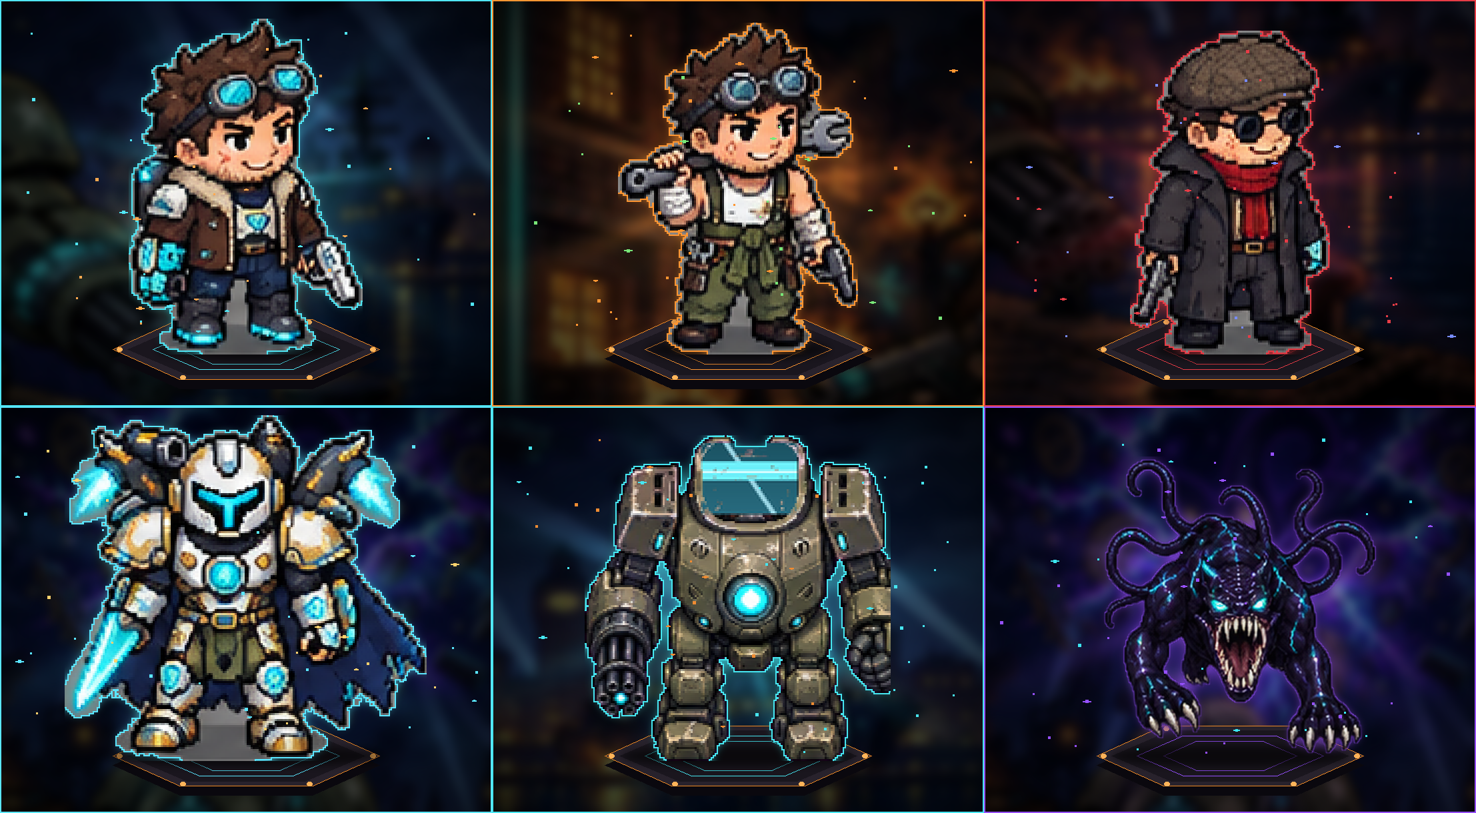
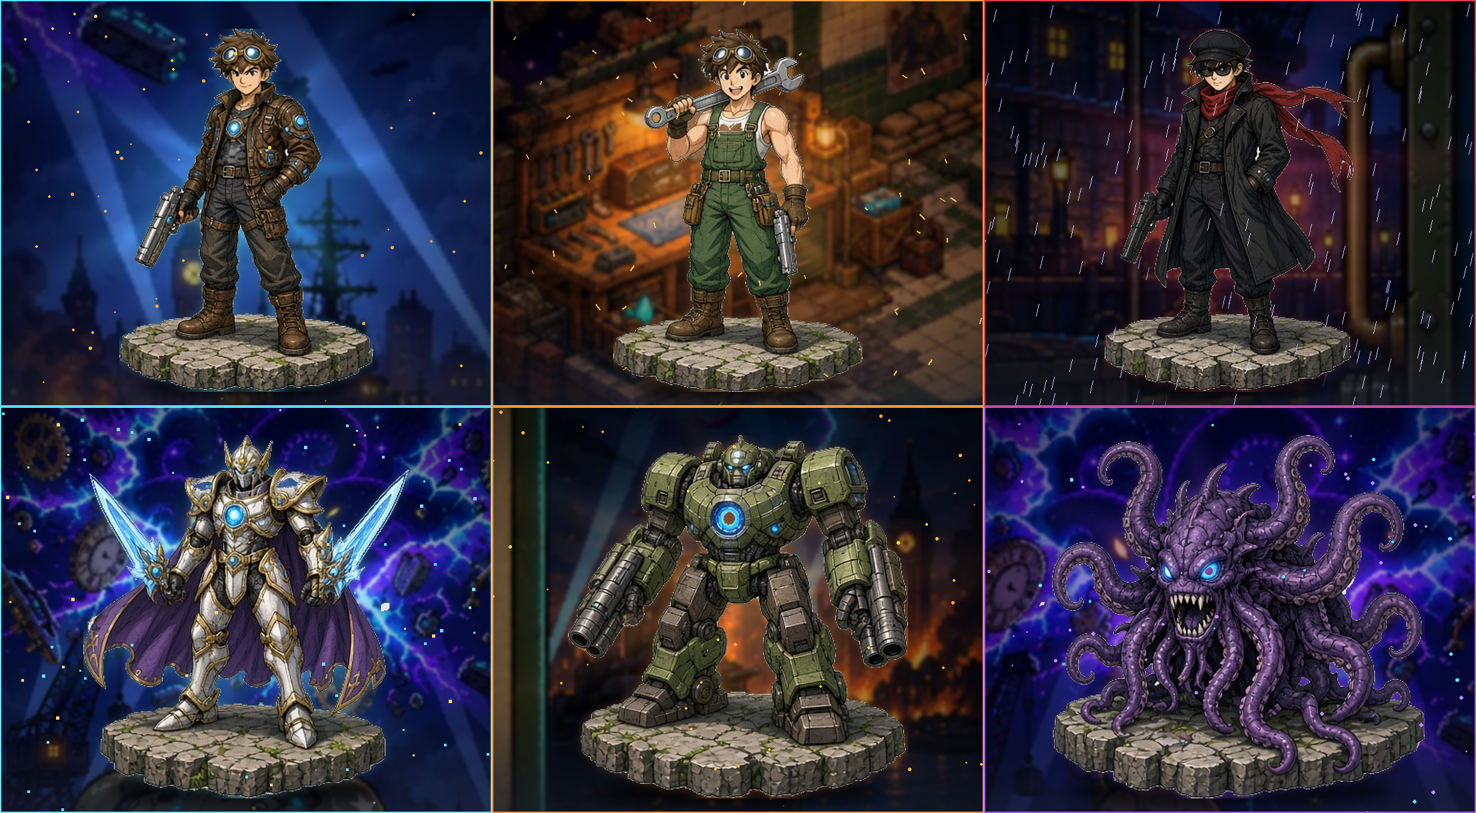
retratos v2: estilo Toriyama refinado + preview e source em art/

diff --git a/tools/make_portraits.py b/tools/make_portraits.py
@@ -1,12 +1,14 @@
-"""Retratos "de vitrine" da tela de EQUIPAMENTO (o personagem grande no meio).
+"""Retratos de vitrine da tela de EQUIPAMENTO (personagem grande no meio).
 
-Monta uma arte por skin, armadura e robô a partir das folhas em alta resolução (art/source, assets/mech),
-num palco noturno das Docas tirado da ilustração do menu: contraluz na cor do equipamento, raios de luz,
-plataforma hexagonal (a mesma da Cápsula Temporal), contorno luminoso, partículas e vinheta.
+Fonte: art/source/portraits-toriyama-v1.png — folha 3x2 gerada a partir de art/source/portraits-toriyama-prompt.txt
+(homenagem ao traço de Akira Toriyama), fundo branco. Este script recorta cada figura, remove o branco com
+bordas suaves e monta um cenário próprio para cada uma usando as ilustrações do jogo:
 
-Saída: assets/ui/portraits/<chave>.png (738x610, o dobro da área de prévia)
-Uso:   python tools/make_portraits.py
-Para trocar por uma ilustração pintada, basta salvar outra imagem com o mesmo nome.
+  Padrão    → cais noturno com holofotes (menu)          Ômega   → céu partido por raios e o monstro (menu)
+  Mecânico  → oficina do Refúgio (refuge-reference)       Titan   → porto em guerra, navios e relâmpagos (adventure)
+  Espião    → rua de Londres com garoa e névoa (online)   Spectre → céu cósmico dos tentáculos, tons violeta (menu)
+
+Saída: assets/ui/portraits/<chave>.png (738x610). Uso: python tools/make_portraits.py
 """
 from pathlib import Path
 import math, random
@@ -14,124 +16,119 @@ import numpy as np
 from PIL import Image, ImageFilter, ImageDraw, ImageEnhance
 
 ROOT = Path(__file__).resolve().parents[1]
+SRC = ROOT / "art/source/portraits-toriyama-v1.png"
 OUT = ROOT / "assets/ui/portraits"
-W, H = 738, 610   # 2× a área interna do painel de prévia (369×305)
+W, H = 738, 610
 
-def sheet_cell(path, box, key_bg=None, tol=24):
-    im = Image.open(ROOT / path).convert("RGBA").crop(box)
-    if key_bg is not None:
-        a = np.asarray(im).copy()
-        diff = np.abs(a[..., :3].astype(int) - np.array(key_bg)).sum(2)
-        # remove o fundo por inundação a partir das bordas (não apaga cinzas dentro do personagem)
-        bg = diff < tol
-        seen = np.zeros_like(bg)
-        stack = [(y, x) for y in range(a.shape[0]) for x in (0, a.shape[1] - 1)] + [(y, x) for x in range(a.shape[1]) for y in (0, a.shape[0] - 1)]
-        while stack:
-            y, x = stack.pop()
-            if y < 0 or x < 0 or y >= a.shape[0] or x >= a.shape[1] or seen[y, x] or not bg[y, x]: continue
-            seen[y, x] = True
-            stack += [(y + 1, x), (y - 1, x), (y, x + 1), (y, x - 1)]
-        a[seen, 3] = 0
-        im = Image.fromarray(a)
-    bb = im.getbbox()
-    return im.crop(bb)
+# recortes na folha (x0, y0, x1, y1)
+CELLS = {"o_padrao": (0, 0, 372, 388), "o_mecanico": (372, 0, 750, 390), "o_espiao": (750, 0, 1168, 392),
+         "armor_omega": (0, 388, 372, 784), "titan": (372, 390, 750, 784), "spectre": (750, 392, 1168, 784)}
 
-GRAY = (123, 123, 123)
-SUBJECTS = {
-    # chave: (recorte, cor principal, cor secundária, fundo do menu)
-    "o_padrao": (lambda: sheet_cell("art/source/marty-outfits-v1.png", (228, 13, 390, 185), GRAY), (80, 230, 245), (255, 170, 80), "city"),
-    "o_espiao": (lambda: sheet_cell("art/source/marty-outfits-v1.png", (228, 200, 390, 367), GRAY), (230, 60, 70), (120, 140, 255), "street"),
-    "o_mecanico": (lambda: sheet_cell("art/source/marty-outfits-v1.png", (228, 379, 390, 547), GRAY), (255, 150, 50), (120, 230, 120), "fire"),
-    "armor_omega": (lambda: sheet_cell("art/source/marty-outfits-v1.png", (15, 561, 196, 734), GRAY), (90, 230, 255), (255, 210, 110), "sky"),
-    "titan": (lambda: Image.open(ROOT / "assets/mech/titan_v2.png").convert("RGBA").crop((880, 0, 1056, 176)).crop(Image.open(ROOT / "assets/mech/titan_v2.png").convert("RGBA").crop((880, 0, 1056, 176)).getbbox()), (70, 230, 240), (240, 140, 50), "docks"),
-    "spectre": (lambda: sheet_cell("art/source/spectre-feral-source.png", (915, 0, 1222, 320)), (150, 80, 255), (60, 230, 240), "sky"),
+# cenário: (arquivo, recorte, desfoque, brilho, cor de contraluz, cor de tom, partículas)
+SCENES = {
+    "o_padrao": ("assets/ui/menu.png", (1070, 200, 1344, 520), 2.5, 0.75, (90, 220, 255), (0.85, 0.95, 1.1), "embers"),
+    "o_mecanico": ("art/source/refuge-reference.png", (40, 60, 560, 390), 2.5, 0.72, (255, 160, 60), (1.12, 0.95, 0.8), "sparks"),
+    "o_espiao": ("assets/ui/online.png", (0, 150, 360, 560), 2.5, 0.6, (230, 60, 70), (0.8, 0.85, 1.15), "rain"),
+    "armor_omega": ("assets/ui/menu.png", (620, 0, 1190, 400), 1.8, 0.8, (110, 225, 255), (0.95, 1.0, 1.15), "energy"),
+    "titan": ("assets/ui/adventure.png", (960, 160, 1344, 560), 2.5, 0.7, (255, 150, 60), (1.05, 1.0, 0.9), "embers"),
+    "spectre": ("assets/ui/menu.png", (730, 0, 1160, 330), 2.0, 0.7, (170, 90, 255), (1.0, 0.8, 1.25), "spores"),
 }
-BG_BOX = {"city": (1000, 300, 1344, 640), "street": (1060, 430, 1344, 720), "fire": (415, 250, 630, 520),
-          "sky": (620, 0, 1180, 420), "docks": (1150, 250, 1344, 560)}
 
-def stage(kind, main, rng):
-    menu = Image.open(ROOT / "assets/ui/menu.png").convert("RGB")
-    bg = menu.crop(BG_BOX[kind]).resize((W, H), Image.BICUBIC).filter(ImageFilter.GaussianBlur(7))
-    bg = ImageEnhance.Brightness(bg).enhance(0.55)
-    bg = ImageEnhance.Color(bg).enhance(0.8)
-    a = np.asarray(bg).astype(float) / 255
-    # tom da cor do equipamento + vinheta
+def cutout(box):
+    im = Image.open(SRC).convert("RGB").crop(box)
+    a = np.asarray(im).astype(np.int16)
+    diff = (255 - a).sum(2)                       # 0 = branco puro
+    bg = diff < 36
+    h, w = bg.shape
+    seen = np.zeros_like(bg)
+    stack = [(y, 0) for y in range(h)] + [(y, w - 1) for y in range(h)] + [(0, x) for x in range(w)] + [(h - 1, x) for x in range(w)]
+    while stack:
+        y, x = stack.pop()
+        if y < 0 or x < 0 or y >= h or x >= w or seen[y, x] or not bg[y, x]: continue
+        seen[y, x] = True
+        stack.extend(((y + 1, x), (y - 1, x), (y, x + 1), (y, x - 1)))
+    # buracos brancos fechados (entre pernas, braços, tentáculos) também são fundo, se forem grandes
+    from scipy import ndimage
+    lab, n = ndimage.label(bg & ~seen)
+    sizes = ndimage.sum(np.ones_like(lab), lab, range(1, n + 1))
+    for i, sz in enumerate(sizes, 1):
+        if sz > 20: seen |= lab == i
+    alpha = np.where(seen, 0, 255).astype(np.float32)
+    # borda suave: pixels claros junto ao fundo ficam semitransparentes e perdem o "halo" branco
+    near = np.asarray(Image.fromarray(seen.astype(np.uint8) * 255).filter(ImageFilter.MaxFilter(5))) > 0
+    edge = near & ~seen
+    k = np.clip(diff / 110.0, 0, 1)
+    alpha[edge] = 255 * k[edge]
+    rgb = a.astype(np.float32)
+    ka = np.clip(alpha / 255.0, 0.05, 1)[..., None]
+    rgb = np.where(edge[..., None], np.clip((rgb - 255 * (1 - ka)) / ka, 0, 255), rgb)   # remove o branco misturado
+    out = Image.fromarray(np.dstack([rgb, alpha]).astype(np.uint8), "RGBA")
+    return out.crop(out.getbbox())
+
+def scene(key, rng):
+    path, box, blur, bright, glowc, tone, _ = SCENES[key]
+    bg = Image.open(ROOT / path).convert("RGB").crop(box)
+    # preenche 738x610 mantendo proporção (corta o excesso)
+    s = max(W / bg.width, H / bg.height)
+    bg = bg.resize((math.ceil(bg.width * s), math.ceil(bg.height * s)), Image.LANCZOS)
+    bg = bg.crop(((bg.width - W) // 2, (bg.height - H) // 2, (bg.width - W) // 2 + W, (bg.height - H) // 2 + H))
+    bg = bg.filter(ImageFilter.GaussianBlur(blur))
+    bg = ImageEnhance.Brightness(bg).enhance(bright)
+    a = np.asarray(bg).astype(np.float32) / 255 * np.array(tone)
     yy, xx = np.mgrid[0:H, 0:W]
-    cx, cy = W / 2, H * 0.52
+    cx, cy = W / 2, H * 0.48
     r = np.sqrt(((xx - cx) / W) ** 2 + ((yy - cy) / H) ** 2)
-    tint = np.array(main) / 255
-    a = a * (0.75 + 0.25 * tint)
-    glow = np.clip(1.0 - r / 0.42, 0, 1) ** 2
-    a = a + glow[..., None] * tint * 0.55
-    # raios de luz saindo de trás do personagem
-    ang = np.arctan2(yy - H * 0.45, xx - cx)
-    rays = (0.5 + 0.5 * np.cos(ang * 9 + 0.6)) ** 6 * np.clip(1 - r / 0.7, 0, 1)
-    a = a + rays[..., None] * tint * 0.22
-    vign = np.clip(1.25 - r * 1.4, 0, 1)
-    a = a * vign[..., None]
+    g = np.array(glowc) / 255
+    a += (np.clip(1 - r / 0.45, 0, 1) ** 2)[..., None] * g * 0.5            # contraluz
+    ang = np.arctan2(yy - H * 0.42, xx - cx)
+    a += ((0.5 + 0.5 * np.cos(ang * 7 + 0.4)) ** 8 * np.clip(1 - r / 0.75, 0, 1))[..., None] * g * 0.16   # raios
+    a *= np.clip(1.3 - r * 1.35, 0, 1)[..., None]                               # vinheta
+    # névoa no chão
+    fog = np.clip((yy - H * 0.7) / (H * 0.3), 0, 1) ** 1.5
+    a = a * (1 - fog[..., None] * 0.35) + fog[..., None] * np.array([0.1, 0.12, 0.18]) * 0.6
     return Image.fromarray((np.clip(a, 0, 1) * 255).astype(np.uint8)).convert("RGBA")
 
-def hex_platform(img, main, sec):
+def particles(img, kind, glowc, rng, front):
     d = ImageDraw.Draw(img, "RGBA")
-    cx, cy = W / 2, H * 0.86
-    def hexpts(rx, ry, dy=0):
-        return [(cx + rx * math.cos(math.pi / 3 * k), cy + dy + ry * math.sin(math.pi / 3 * k)) for k in range(6)]
-    d.polygon(hexpts(200, 52, 14), fill=(10, 8, 14, 200))                 # lateral escura
-    d.polygon(hexpts(200, 52), fill=(40, 34, 44, 255), outline=(240, 138, 36, 255))
-    d.polygon(hexpts(178, 44), fill=(26, 22, 30, 255))
-    d.polygon(hexpts(140, 35), outline=main + (230,))
-    d.polygon(hexpts(100, 25), outline=main + (140,))
-    # rebites laranja da cápsula
-    for (x, y) in hexpts(190, 48): d.ellipse((x - 4, y - 3, x + 4, y + 3), fill=(255, 180, 90, 255))
-    return img
-
-def rim(sprite, scale, main, sec):
-    big = sprite.resize((sprite.width * scale, sprite.height * scale), Image.NEAREST)
-    alpha = big.split()[3]
-    glow = Image.new("RGBA", big.size, main + (0,))
-    g = alpha.filter(ImageFilter.MaxFilter(9)).filter(ImageFilter.GaussianBlur(9))
-    glow.putalpha(g.point(lambda v: int(v * 0.9)))
-    edge = Image.new("RGBA", big.size, main + (0,))
-    e = alpha.filter(ImageFilter.MaxFilter(5))
-    e = Image.fromarray(np.clip(np.asarray(e).astype(int) - np.asarray(alpha).astype(int), 0, 255).astype(np.uint8))
-    edge.putalpha(e)
-    return big, glow, edge
-
-def particles(img, main, sec, rng):
-    d = ImageDraw.Draw(img, "RGBA")
-    for _ in range(46):
-        x = rng.uniform(20, W - 20); y = rng.uniform(40, H * 0.85)
-        s = rng.choice([2, 2, 3, 4]); c = main if rng.random() < 0.65 else sec
-        a = int(rng.uniform(90, 230))
-        d.rectangle((x, y, x + s, y + s), fill=c + (a,))
-        if rng.random() < 0.25: d.rectangle((x - s, y + s / 2 - 0.5, x + 2 * s, y + s / 2 + 0.5), fill=c + (a // 2,))
+    n = {"rain": 140, "sparks": 40, "embers": 45, "energy": 55, "spores": 50}[kind] // (2 if front else 1)
+    for _ in range(n):
+        x = rng.uniform(0, W); y = rng.uniform(0, H)
+        a = int(rng.uniform(70, 200) * (1.0 if front else 0.6))
+        if kind == "rain":
+            d.line((x, y, x - 4, y + 18), fill=(190, 205, 255, a // 2), width=1)
+        elif kind == "sparks":
+            l = rng.uniform(4, 10); ang = rng.uniform(-2.6, -0.5)
+            d.line((x, y, x + math.cos(ang) * l, y + math.sin(ang) * l), fill=(255, 200, 90, a), width=2)
+        elif kind == "embers":
+            s = rng.choice([2, 3, 3, 4]); d.ellipse((x, y, x + s, y + s), fill=(255, 150 + rng.randint(0, 80), 60, a))
+        elif kind == "energy":
+            s = rng.choice([2, 3, 4]); c = glowc if rng.random() < 0.7 else (255, 215, 120)
+            d.rectangle((x, y, x + s, y + s), fill=c + (a,))
+        elif kind == "spores":
+            s = rng.uniform(2, 5); d.ellipse((x, y, x + s, y + s), fill=(190, 140, 255, a) if rng.random() < 0.7 else (90, 230, 240, a))
 
 def make(key):
-    get, main, sec, bgk = SUBJECTS[key]
-    rng = random.Random(hash(key) & 0xffff)
-    sprite = get()
-    target_h = 440 if key not in ("titan", "spectre") else 420
-    scale = max(1, round(target_h / sprite.height)) if key != "spectre" else 1
-    if key == "spectre":   # arte já é grande e pintada: redimensiona suave
-        f = 470 / sprite.width
-        sprite = sprite.resize((int(sprite.width * f), int(sprite.height * f)), Image.LANCZOS); scale = 1
-    img = stage(bgk, main, rng)
-    img = hex_platform(img, main, sec)
-    big, glow, edge = rim(sprite, scale, main, sec)
-    foot = (int(W / 2 - big.width / 2), int(H * 0.86 - big.height + 8))
-    # sombra no chão
-    sh = Image.new("RGBA", (W, H), (0, 0, 0, 0)); ImageDraw.Draw(sh).ellipse((W / 2 - big.width * 0.38, H * 0.86 - 16, W / 2 + big.width * 0.38, H * 0.86 + 16), fill=(0, 0, 0, 150))
-    img = Image.alpha_composite(img, sh.filter(ImageFilter.GaussianBlur(6)))
-    layer = Image.new("RGBA", (W, H), (0, 0, 0, 0)); layer.paste(glow, foot, glow); img = Image.alpha_composite(img, layer)
-    layer = Image.new("RGBA", (W, H), (0, 0, 0, 0)); layer.paste(big, foot, big); img = Image.alpha_composite(img, layer)
-    layer = Image.new("RGBA", (W, H), (0, 0, 0, 0)); layer.paste(edge, foot, edge); img = Image.alpha_composite(img, layer)
-    particles(img, main, sec, rng)
-    # faixa de luz no topo e moldura fina
-    d = ImageDraw.Draw(img, "RGBA")
-    d.rectangle((0, 0, W - 1, H - 1), outline=main + (120,), width=2)
+    rng = random.Random(sum(map(ord, key)))
+    fig = cutout(CELLS[key])
+    target_h = 545
+    f = min(target_h / fig.height, (W - 40) / fig.width)
+    fig = fig.resize((int(fig.width * f), int(fig.height * f)), Image.LANCZOS)
+    img = scene(key, rng)
+    particles(img, SCENES[key][6], SCENES[key][4], rng, False)
+    pos = ((W - fig.width) // 2, H - fig.height - 22)
+    # sombra de contato sob a plataforma e brilho de contorno na cor do personagem
+    sh = Image.new("RGBA", (W, H)); ImageDraw.Draw(sh).ellipse((W / 2 - fig.width * 0.42, H - 60, W / 2 + fig.width * 0.42, H - 8), fill=(0, 0, 0, 170))
+    img = Image.alpha_composite(img, sh.filter(ImageFilter.GaussianBlur(10)))
+    al = fig.split()[3]
+    glow = Image.new("RGBA", fig.size, SCENES[key][4] + (0,))
+    glow.putalpha(al.filter(ImageFilter.MaxFilter(7)).filter(ImageFilter.GaussianBlur(10)).point(lambda v: int(v * 0.75)))
+    layer = Image.new("RGBA", (W, H)); layer.paste(glow, pos, glow); img = Image.alpha_composite(img, layer)
+    layer = Image.new("RGBA", (W, H)); layer.paste(fig, pos, fig); img = Image.alpha_composite(img, layer)
+    particles(img, SCENES[key][6], SCENES[key][4], rng, True)
+    ImageDraw.Draw(img, "RGBA").rectangle((0, 0, W - 1, H - 1), outline=SCENES[key][4] + (110,), width=2)
     img.convert("RGB").save(OUT / f"{key}.png")
-    print("wrote", key, big.size)
+    print("wrote", key, fig.size)
 
 if __name__ == "__main__":
     OUT.mkdir(parents=True, exist_ok=True)
-    for k in SUBJECTS: make(k)
+    for k in CELLS: make(k)
